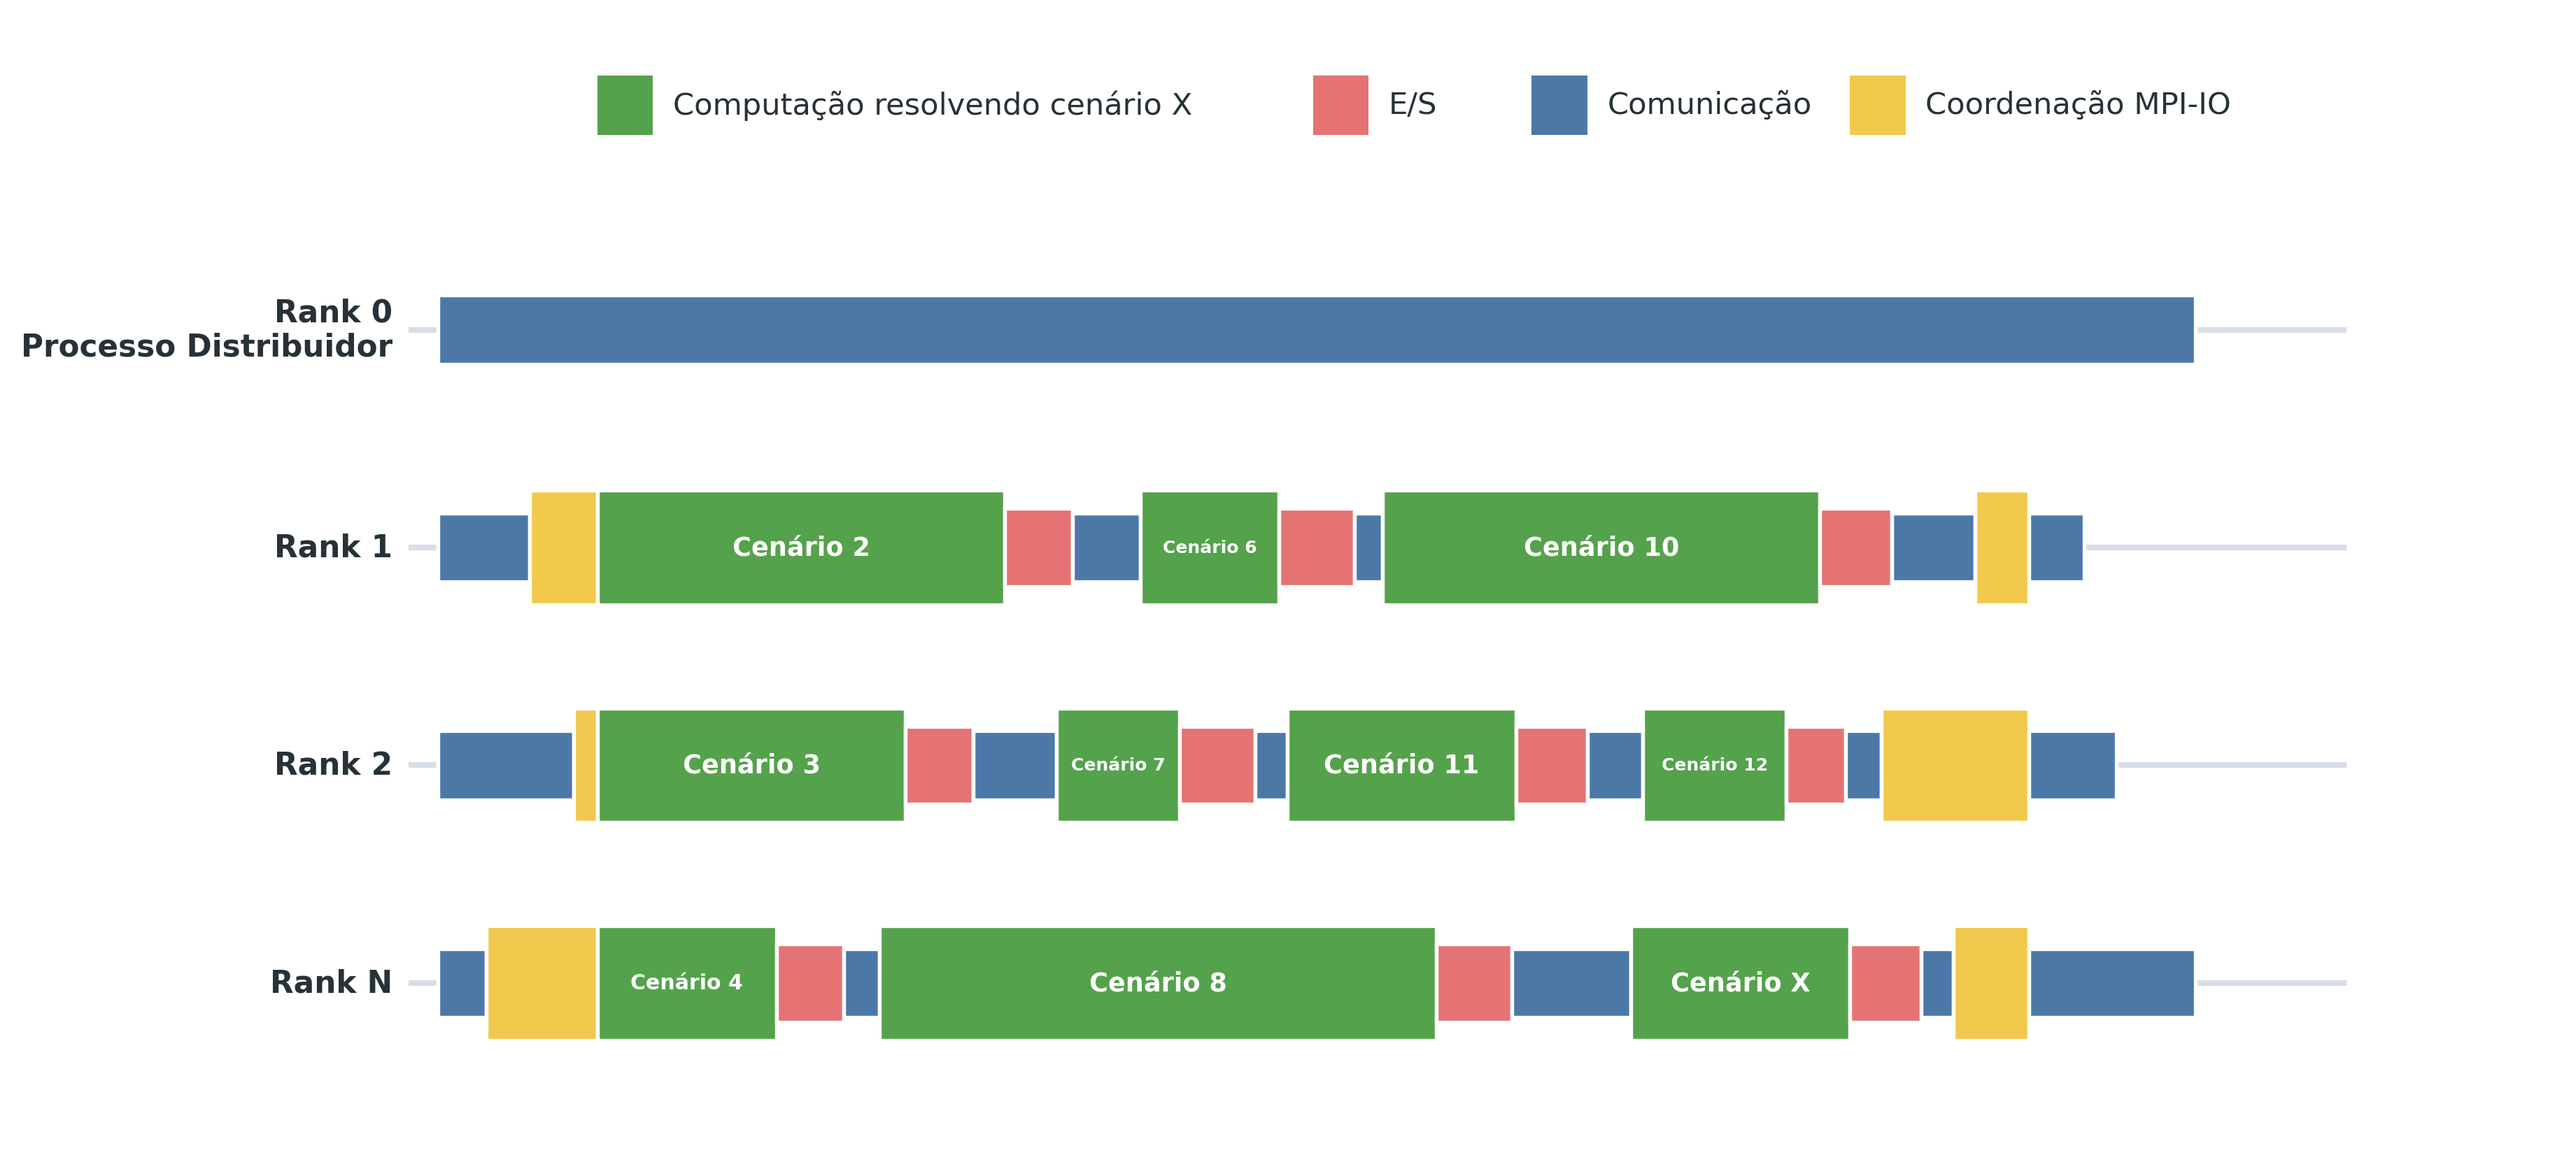
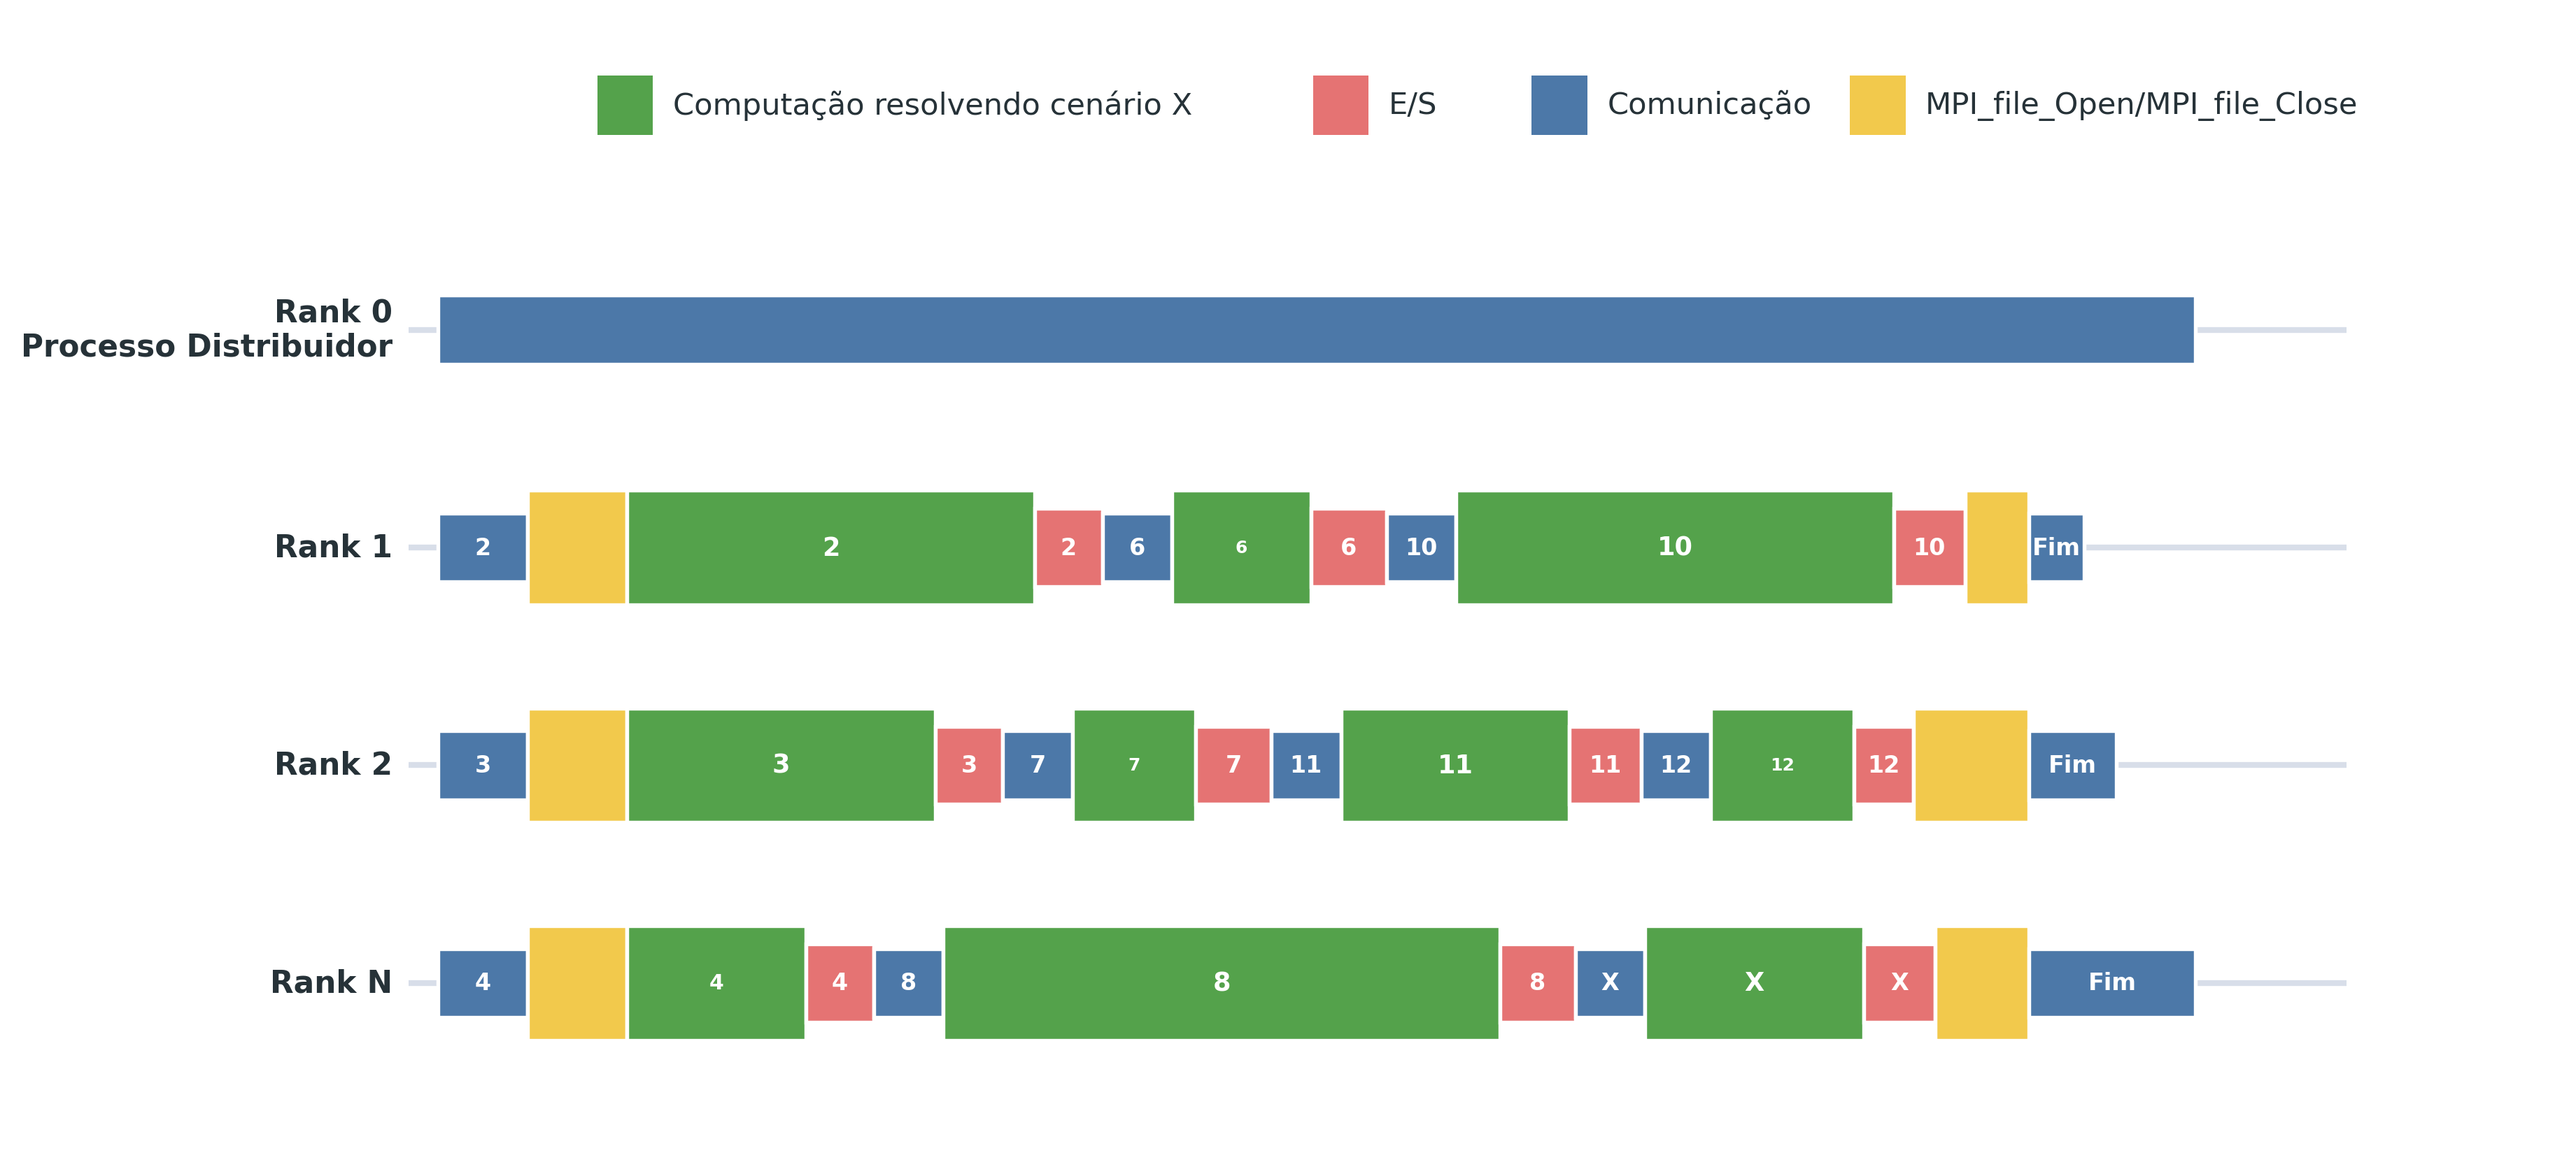
Fix MPI Open/Close

diff --git a/chapters/04_avaliacoes.tex b/chapters/04_avaliacoes.tex
@@ -191,10 +191,8 @@ paralelismo dos múltiplos OSTs.
 A Tabela~\ref{tab:mpiio_aws} consolida os resultados obtidos com a
 implementação MPI-IO no Experimento AWS. Assim como na tabela
 anterior, o tempo total corresponde ao tempo de execução medido, que
-inclui computação, E/S, comunicação e Coordenação MPI-IO. Os tempos de
-I/O, comunicação e Coordenação MPI-IO são apresentados separadamente; a
-coordenação corresponde às chamadas
-\texttt{MPI\_File\_Open}/\texttt{MPI\_File\_Close}.
+inclui computação, E/S, comunicação e \texttt{MPI\_File\_open}/\texttt{MPI\_File\_close}. Os tempos de
+I/O, comunicação e \texttt{MPI\_File\_open}/\texttt{MPI\_File\_close} são apresentados separadamente.
 
 \begin{table}[H]
 \centering
@@ -366,13 +364,12 @@ fração pequena do tempo total em todas as escalas, permanecendo próximo
 ou abaixo de 1\% a partir de 4~nós. Na implementação atual, por outro lado, a
 fração de E/S cresce de 7,6\% em 8~nós para 28,2\% em 16~nós e 49,5\%
 em 32~nós. Na implementação MPI-IO, parte do tempo de simulação passa a
-ser ocupada pela Coordenação MPI-IO, medida pelas chamadas
-\texttt{MPI\_File\_Open}/\texttt{MPI\_File\_Close}: essa parcela cresce
+ser ocupada pelas chamadas \texttt{MPI\_File\_open}/\texttt{MPI\_File\_close}: essa parcela cresce
 de 0{,}5\% em 2~nós para 1{,}0\% em 4~nós, 2{,}7\% em 8~nós, 5{,}4\%
 em 16~nós e 11{,}6\% em 32~nós. Esse crescimento percentual, contudo, reflete
 sobretudo a redução do tempo de simulação com o aumento do paralelismo
 e não um aumento da carga útil tratada por essas chamadas. Como
-\texttt{MPI\_File\_Open}/\texttt{MPI\_File\_Close} são executadas
+\texttt{MPI\_File\_open}/\texttt{MPI\_File\_close} são executadas
 uma única vez por execução --- no início e no final ---, trata-se de
 um \emph{overhead fixo} em relação à carga útil do problema: não
 cresce com o número de cenários nem com o número de estágios
@@ -384,7 +381,7 @@ parcela absoluta crescendo de 42~s em 2~nós para 147~s em 32~nós.
 Os experimentos aqui apresentados consideram
 apenas três estágios mensais, o que mantém o tempo total de
 simulação relativamente curto e infla a fração percentual da
-Coordenação MPI-IO; em execuções de operação programada típicas do
+\texttt{MPI\_File\_open}/\texttt{MPI\_File\_close}; em execuções de operação programada típicas do
 SIN, com horizonte de vários anos e número de cenários muito maior,
 o custo absoluto dessas chamadas, para uma dada configuração de nós,
 permanece o mesmo enquanto o tempo total cresce em ordem de
@@ -642,7 +639,7 @@ parcela percentual de E/S no tempo de simulação permanece abaixo de
 \centering
 \caption{Desempenho do Experimento SDumont com a implementação MPI-IO. O
 tempo total corresponde ao tempo de execução medido, que inclui computação,
-E/S, comunicação e Coordenação MPI-IO. A eficiência é calculada em relação
+E/S, comunicação e \texttt{MPI\_File\_open}/\texttt{MPI\_File\_close}. A eficiência é calculada em relação
 à base de 2~nós.}
 \label{tab:mpiio_sdumont}
 \small
@@ -763,9 +760,9 @@ absorver maior paralelismo de escrita.
 
 A Figura~\ref{fig:Tempo_execucao_SDumont} detalha o tempo médio por
 processo no Experimento SDumont, separando as parcelas de computação,
-comunicação, E/S e Coordenação MPI-IO. A parcela Coordenação MPI-IO
+comunicação, E/S e \texttt{MPI\_File\_open}/\texttt{MPI\_File\_close}. A parcela \texttt{MPI\_File\_open}/\texttt{MPI\_File\_close}
 corresponde às chamadas
-\texttt{MPI\_File\_Open}/\texttt{MPI\_File\_Close}, executadas
+\texttt{MPI\_File\_open}/\texttt{MPI\_File\_close}, executadas
 \emph{uma única vez} por execução --- na abertura e no fechamento do
 arquivo de saída. Trata-se, portanto, de um \emph{overhead fixo} em
 relação à carga útil do problema: não cresce com o número de
@@ -789,11 +786,11 @@ do processo escritor centralizado no Lustre compartilhado do
 SDumont. Na implementação MPI-IO, o tempo de E/S é redistribuído
 entre os processos e permanece reduzido em todas as escalas
 (abaixo de 5\% do tempo de simulação), enquanto o custo da
-Coordenação MPI-IO passa a compor uma fração visível do tempo total
+\texttt{MPI\_File\_open}/\texttt{MPI\_File\_close} passa a compor uma fração visível do tempo total
 nas maiores configurações --- em particular, cresce de cerca de
 23~s em 2~nós para 126~s em 16~nós e 230~s em 32~nós.
 
-É importante destacar que a fração relativa da Coordenação MPI-IO
+É importante destacar que a fração relativa da \texttt{MPI\_File\_open}/\texttt{MPI\_File\_close}
 observada nestes experimentos é maior do que se espera em execuções
 reais do SDDP. Como já discutido, trata-se de um overhead fixo em
 relação à carga útil do problema --- não cresce com o número de
@@ -807,7 +804,7 @@ horizonte de vários anos em resolução mensal e número de cenários
 muito maior, o custo absoluto de coordenação, para uma dada
 configuração de nós, permanece o mesmo enquanto o tempo total de
 computação cresce em ordem de magnitude
---- diluindo a fração relativa da Coordenação MPI-IO para níveis
+--- diluindo a fração relativa da \texttt{MPI\_File\_open}/\texttt{MPI\_File\_close} para níveis
 desprezíveis. Assim, a figura evidencia que a abordagem proposta
 reduz o gargalo centralizado de escrita; o custo residual de
 coordenação, embora visível na escala dos experimentos, não é uma
@@ -950,7 +947,7 @@ fase de simulação final do SDDP. A faixa avaliada estendeu-se até
 32~nós na AWS e no SDumont; configurações maiores podem revelar
 comportamentos adicionais, em particular saturação de metadados ou
 efeitos de coordenação coletiva. O custo da
-Coordenação MPI-IO, que aqui se mostrou desprezível em valor
+\texttt{MPI\_File\_open}/\texttt{MPI\_File\_close}, que aqui se mostrou desprezível em valor
 absoluto mas inflado em participação percentual pelo tamanho
 reduzido das execuções de teste, merece reavaliação em cargas reais
 de operação programada do SIN, com horizontes plurianuais. Por fim,

diff --git a/generate_figures.py b/generate_figures.py
@@ -332,19 +332,19 @@ def sddp_timeline_plot(output: str) -> None:
 
     processes = [
         ("Rank 0\nProcesso Distribuidor", 3.3, 0.18, 0.72, []),
-        ("Rank 1", 2.35, 0.46, 0.28, [(2, 2.05), (6, 0.7), (10, 2.2)]),
-        ("Rank 2", 1.4, 0.68, 0.44, [(3, 1.55), (7, 0.62), (11, 1.15), (12, 0.72)]),
-        ("Rank N", 0.45, 0.24, 0.84, [(4, 0.9), (8, 2.8), ("X", 1.1)]),
+        ("Rank 1", 2.35, 0.45, 0.28, [(2, 2.05), (6, 0.7), (10, 2.2)]),
+        ("Rank 2", 1.4, 0.45, 0.44, [(3, 1.55), (7, 0.62), (11, 1.15), (12, 0.72)]),
+        ("Rank N", 0.45, 0.45, 0.84, [(4, 0.9), (8, 2.8), ("X", 1.1)]),
     ]
     coord_start_x = 0.15
-    initial_coord_end_x = 0.95
+    initial_coord_end_x = 1.10
     final_coord_end_x = 8.15
     io_widths = [0.34, 0.38, 0.36, 0.30]
     post_io_comm_widths = [
-        [0.16, 0.54, 0.22],
-        [0.34, 0.14, 0.42],
-        [0.42, 0.16, 0.28, 0.18],
-        [0.18, 0.60, 0.16],
+        [0.35, 0.35, 0.35],
+        [0.35, 0.35, 0.35],
+        [0.35, 0.35, 0.35, 0.35],
+        [0.35, 0.35, 0.35],
     ]
 
     def block(x, y, w, h, color, label, edge="white", hatch=None, size=10):
@@ -379,28 +379,31 @@ def sddp_timeline_plot(output: str) -> None:
             block(coord_start_x, y, coordinator_end_x - coord_start_x, 0.3, colors["comm"], "", size=8.5)
             continue
         x = coord_start_x
-        block(x, y, initial_comm_width, 0.3, colors["comm"], "", size=8.5)
+        block(x, y, initial_comm_width, 0.3, colors["comm"], f"{tasks[0][0]}", size=8.0)
         x += initial_comm_width
         block(x, y, initial_coord_end_x - x, 0.5, colors["coord"], "", size=8.5)
         x = initial_coord_end_x
         for idx, (scenario, compute_width) in enumerate(tasks):
             label_size = 6.0 if compute_width < 0.8 else 7.2 if compute_width < 1.1 else 8.8
-            block(x, y, compute_width, 0.5, colors["resolve"], f"Cenário {scenario}", size=label_size)
+            block(x, y, compute_width, 0.5, colors["resolve"], f"{scenario}", size=label_size)
             x += compute_width
-            block(x, y, io_widths[idx], 0.34, colors["io"], "", size=8.5)
+            block(x, y, io_widths[idx], 0.34, colors["io"], f"{scenario}", size=8.0)
             x += io_widths[idx]
-            block(x, y, post_io_comm_widths[process_index][idx], 0.3, colors["comm"], "", size=8.5)
-            x += post_io_comm_widths[process_index][idx]
+            is_last = idx == len(tasks) - 1
+            if not is_last:
+                next_scenario = tasks[idx + 1][0]
+                block(x, y, post_io_comm_widths[process_index][idx], 0.3, colors["comm"], f"{next_scenario}", size=8.0)
+                x += post_io_comm_widths[process_index][idx]
         block(x, y, final_coord_end_x - x, 0.5, colors["coord"], "", size=8.5)
         x = final_coord_end_x
-        block(x, y, final_comm_width, 0.3, colors["comm"], "", size=8.5)
+        block(x, y, final_comm_width, 0.3, colors["comm"], "Fim", size=8.0)
 
     legend_y = 4.28
     legend_items = [
         (0.95, colors["resolve"], "Computação resolvendo cenário X"),
         (4.55, colors["io"], "E/S"),
         (5.65, colors["comm"], "Comunicação"),
-        (7.25, colors["coord"], "Coordenação MPI-IO"),
+        (7.25, colors["coord"], "MPI_File_open/MPI_File_close"),
     ]
     for x, color, label in legend_items:
         ax.add_patch(plt.Rectangle((x, legend_y - 0.13), 0.28, 0.26, facecolor=color, edgecolor="none"))
@@ -635,9 +638,3 @@ def main() -> None:
     message_size_plot(aws_current, aws_mpiio, "EnvioPorTamanho_AWS.png")
     message_count_by_size_plot("histograma_mensagens.png")
     sddp_timeline_plot("SDDP_timeline_MPIIO.png")
-    sddp_architecture2_plot("SDDP_architecture2.png")
-    result_file_format_plot("formato_arquivos_resultado.png")
-
-
-if __name__ == "__main__":
-    main()

diff --git a/chapters/03_proposta.tex b/chapters/03_proposta.tex
@@ -51,7 +51,7 @@ por meio das primitivas do MPI-IO~\cite{mpiioCite}.
 
 A~Figura~\ref{fig:SDDP_timeline_MPIIO} ilustra a linha do tempo da
 execução do SDDP segundo a arquitetura proposta. Essa representação
-destaca a separação entre os pontos de coordenação MPI-IO e o período
+destaca a separação entre as chamadas \texttt{MPI\_File\_open}/\texttt{MPI\_File\_close} e o período
 em que os processos executam, de forma independente, a simulação dos
 cenários e a escrita dos respectivos resultados. Com isso, evidencia-se
 que a coordenação global fica concentrada nas etapas de preparação e
@@ -66,7 +66,7 @@ esse motivo, sua linha é representada integralmente como comunicação.
 
 Antes do início do ciclo de tarefas, os processos participam de uma
 operação coletiva de abertura dos arquivos de resultado. Esse ponto de
-coordenação MPI-IO estabelece o estado compartilhado necessário às
+chamada \texttt{MPI\_File\_open} estabelece o estado compartilhado necessário às
 escritas independentes que se seguem.
 
 A partir desse momento, cada \textit{rank} trabalhador executa o ciclo
@@ -100,7 +100,7 @@ Por essas razões, a estratégia de escritas independentes mostra-se
 mais aderente ao modelo de execução adotado.
 
 Quando não há mais cenários a serem resolvidos, inicia-se uma nova
-etapa de coordenação MPI-IO, dessa vez associada ao fechamento coletivo
+chamada \texttt{MPI\_File\_close}, responsável pelo fechamento coletivo
 dos arquivos de resultado.
 
 \begin{figure}[H]
@@ -385,7 +385,7 @@ sensíveis ao mecanismo de E/S adotado. O tempo de computação serve,
 portanto, como referência estável contra a qual os tempos de
 comunicação, de E/S e de coordenação podem ser comparados.
 
-\subsection{Tempo de coordenação MPI}
+\subsection{Tempo de \texttt{MPI\_File\_open}/\texttt{MPI\_File\_close}}
 \label{sec:metrica_coordenacao}
 
 Reúne os tempos despendidos em chamadas MPI que não correspondem à
